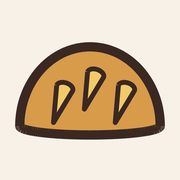
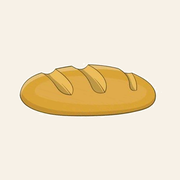
Usar la ilustracion de pan que envio el usuario como icono
Se recorta del fondo blanco por umbral, se endereza 16 grados (venia en
diagonal y desaprovechaba el cuadro) y se monta sobre el plato crema.
Su ambar #e0ab4b ya coincidia casi con el token --ambar.

Changed region(s): [[0.0833, 0.2222, 0.9167, 0.7778]]

diff --git a/index.html b/index.html
@@ -21,10 +21,10 @@
   <meta name="twitter:description" content="Pan recién horneado, pasteles y dulces hechos como antes.">
   <meta name="twitter:image" content="https://images.unsplash.com/photo-1636378126357-7e5f200771c5?auto=format&amp;fit=crop&amp;w=1200&amp;q=85">
   <title>El Tradicional | Panadería &amp; Pastelería</title>
-  <link rel="icon" href="favicon.ico?v=pan4-20260925" sizes="any">
-  <link rel="icon" type="image/png" sizes="32x32" href="favicon-32.png?v=pan4-20260925">
-  <link rel="icon" type="image/png" sizes="192x192" href="favicon-192.png?v=pan4-20260925">
-  <link rel="apple-touch-icon" href="apple-touch-icon.png?v=pan4-20260925">
+  <link rel="icon" href="favicon.ico?v=pan5-20260925" sizes="any">
+  <link rel="icon" type="image/png" sizes="32x32" href="favicon-32.png?v=pan5-20260925">
+  <link rel="icon" type="image/png" sizes="192x192" href="favicon-192.png?v=pan5-20260925">
+  <link rel="apple-touch-icon" href="apple-touch-icon.png?v=pan5-20260925">
   <link rel="stylesheet" href="styles.css?v=pie4-20260924">
   <script type="application/ld+json">
   {
